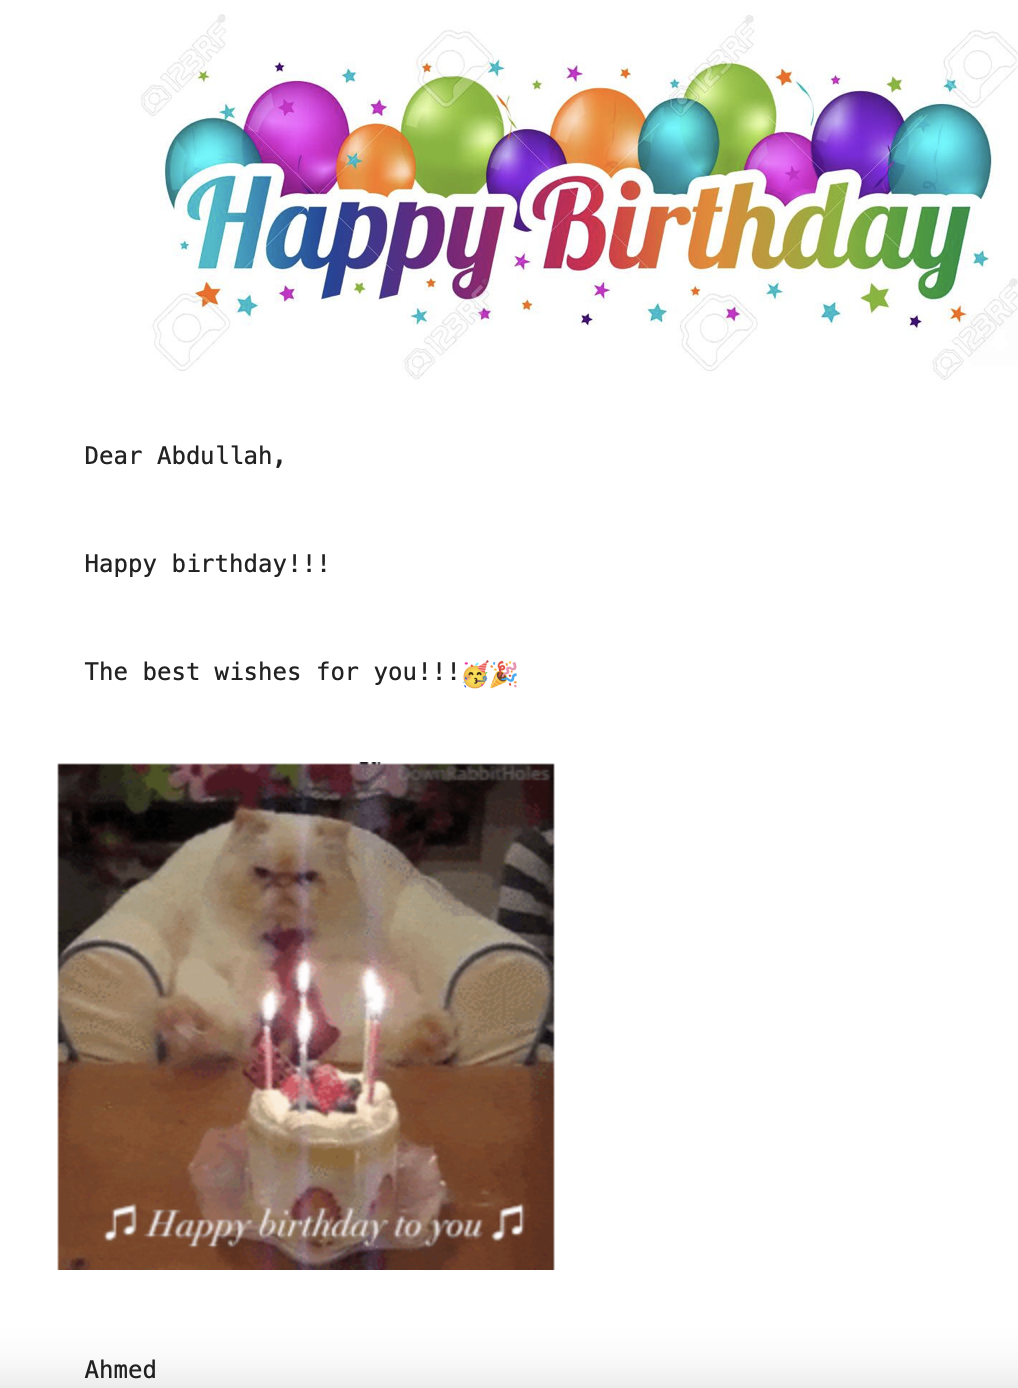
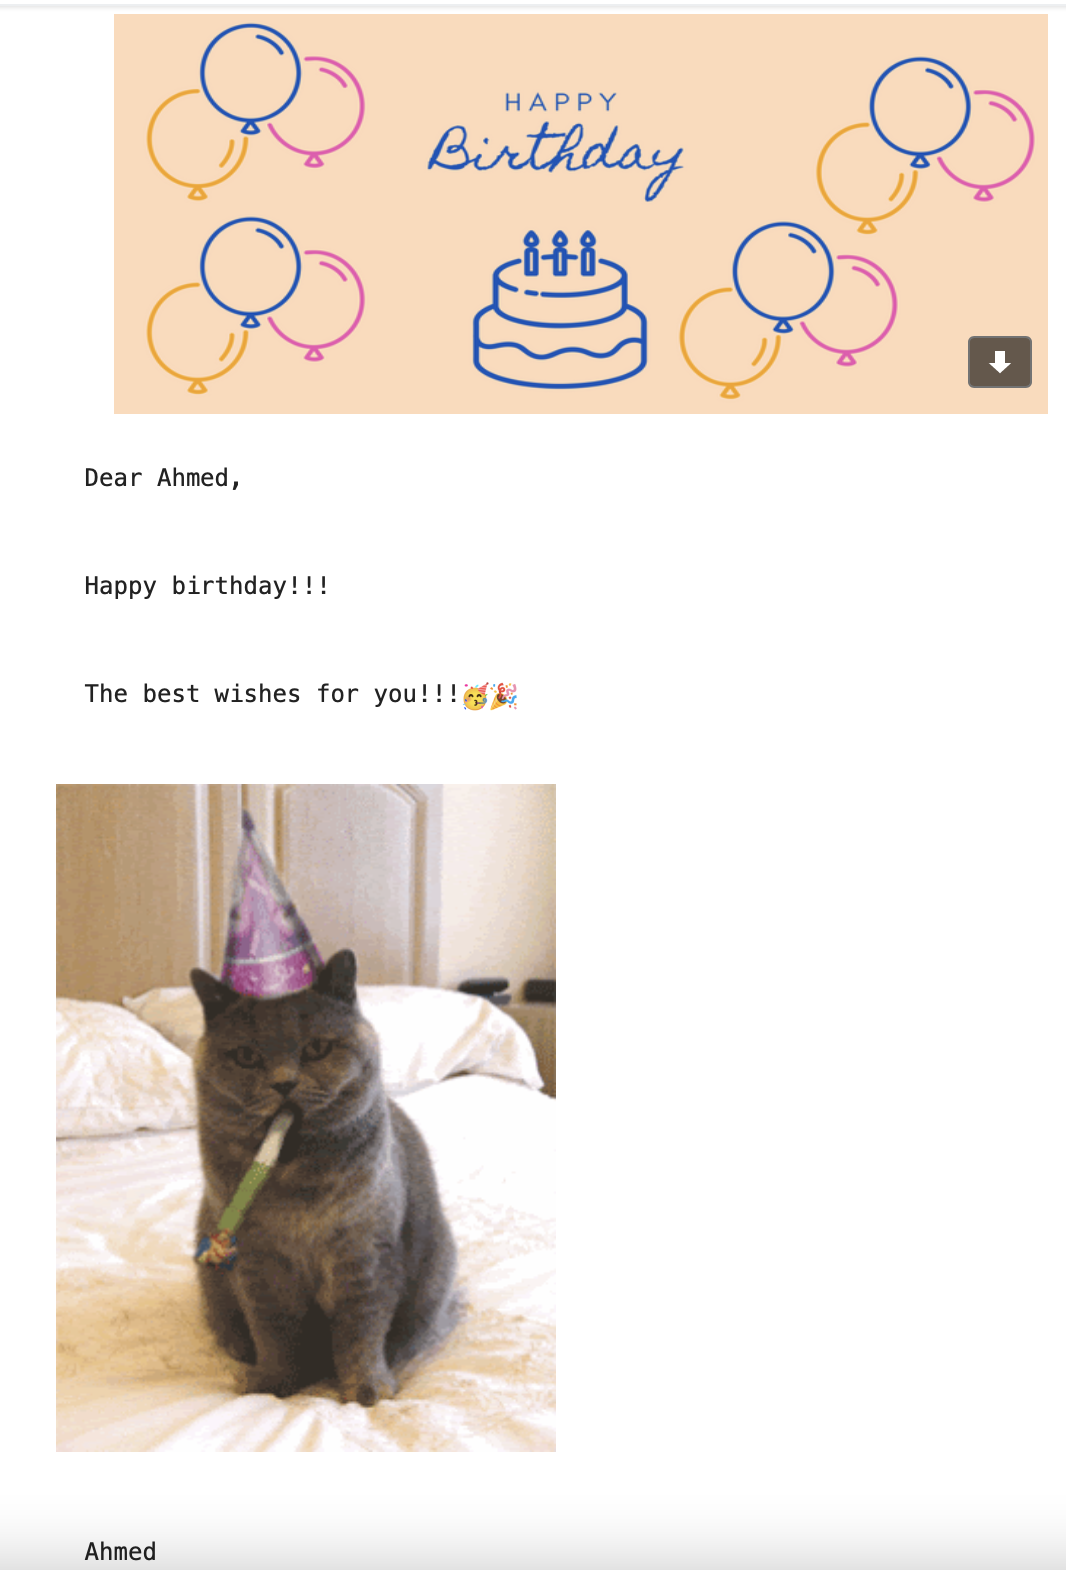
Modified many files

diff --git a/birthd_letters/letter_2.html b/birthd_letters/letter_2.html
@@ -1,5 +1,5 @@
 <pre>
-    <img src="https://previews.123rf.com/images/fotoidee/fotoidee2005/fotoidee200500019/146878677-happy-birthday-banner-colorful-vector-illustration.jpg" width="467" height="200" />
+    <img src="https://i.ibb.co/mJ5T78j/A.png"  width="467" height="200" />
     <br />  Dear [NAME],<br /><br /></pre>
     <pre>  Be happy, for today; you were born to bring blessings and inspiration to all.<br />  Happy birthday!🥳<br />
         <br />  The best wishes for you!!!🥳🎉<br /><br />

diff --git a/birthd_letters/letter_3.html b/birthd_letters/letter_3.html
@@ -1,5 +1,5 @@
 <pre>
-    <img src="https://previews.123rf.com/images/fotoidee/fotoidee2005/fotoidee200500019/146878677-happy-birthday-banner-colorful-vector-illustration.jpg" width="467" height="200" />
+    <img src="https://i.ibb.co/mJ5T78j/A.png"  width="467" height="200" />
     <br />  Dear [NAME],<br />
     <br />  I hope that all your wishes come true.<br />
     <br />  Happy birthday !!🎉<br /><br />

diff --git a/birthd_letters/letter_1.html b/birthd_letters/letter_1.html
@@ -1,5 +1,5 @@
 <pre>
-    <img src="https://previews.123rf.com/images/fotoidee/fotoidee2005/fotoidee200500019/146878677-happy-birthday-banner-colorful-vector-illustration.jpg" width="467" height="200" />
+    <img src="https://i.ibb.co/mJ5T78j/A.png" width="467" height="200" />
     <br />  Dear [NAME],<br />
     <br />  Happy birthday!!!<br />
     <br />  The best wishes for you!!!🥳🎉<br /><br />

diff --git a/README.md b/README.md
@@ -1,6 +1,6 @@
 # Birthday Wishes Email To Friends
 
-<img src="https://thumbs.dreamstime.com/b/birthday-header-colored-balloons-confetti-explosion-colored-balloons-confetti-text-happy-birthday-white-113056426.jpg" alt="" width="800" height="311" />
+<img src="https://i.ibb.co/mJ5T78j/A.png" width="800" height="311" />
 
 ## Project Intro/Objective
 
